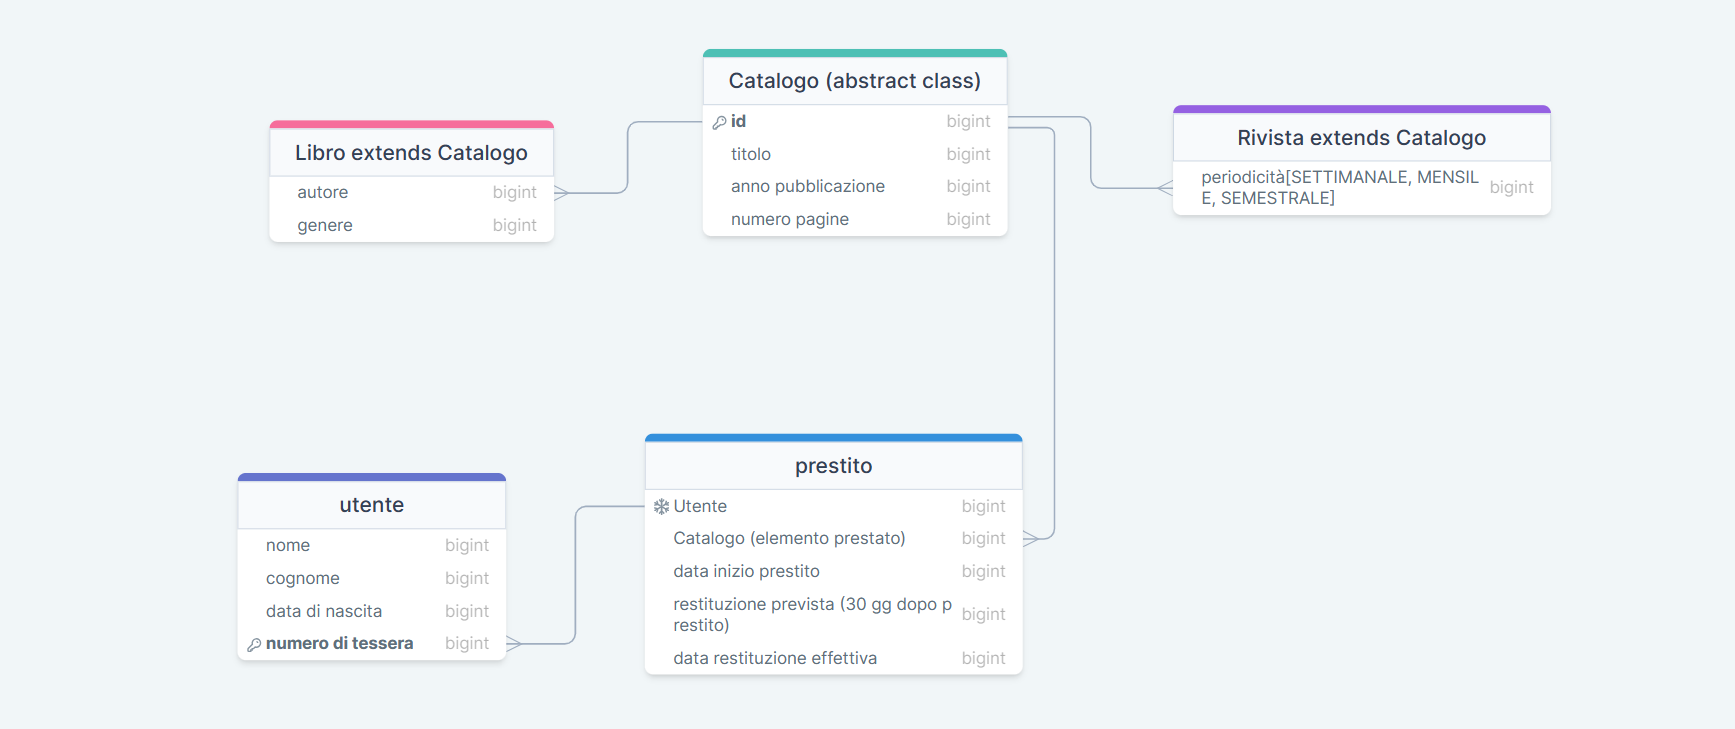
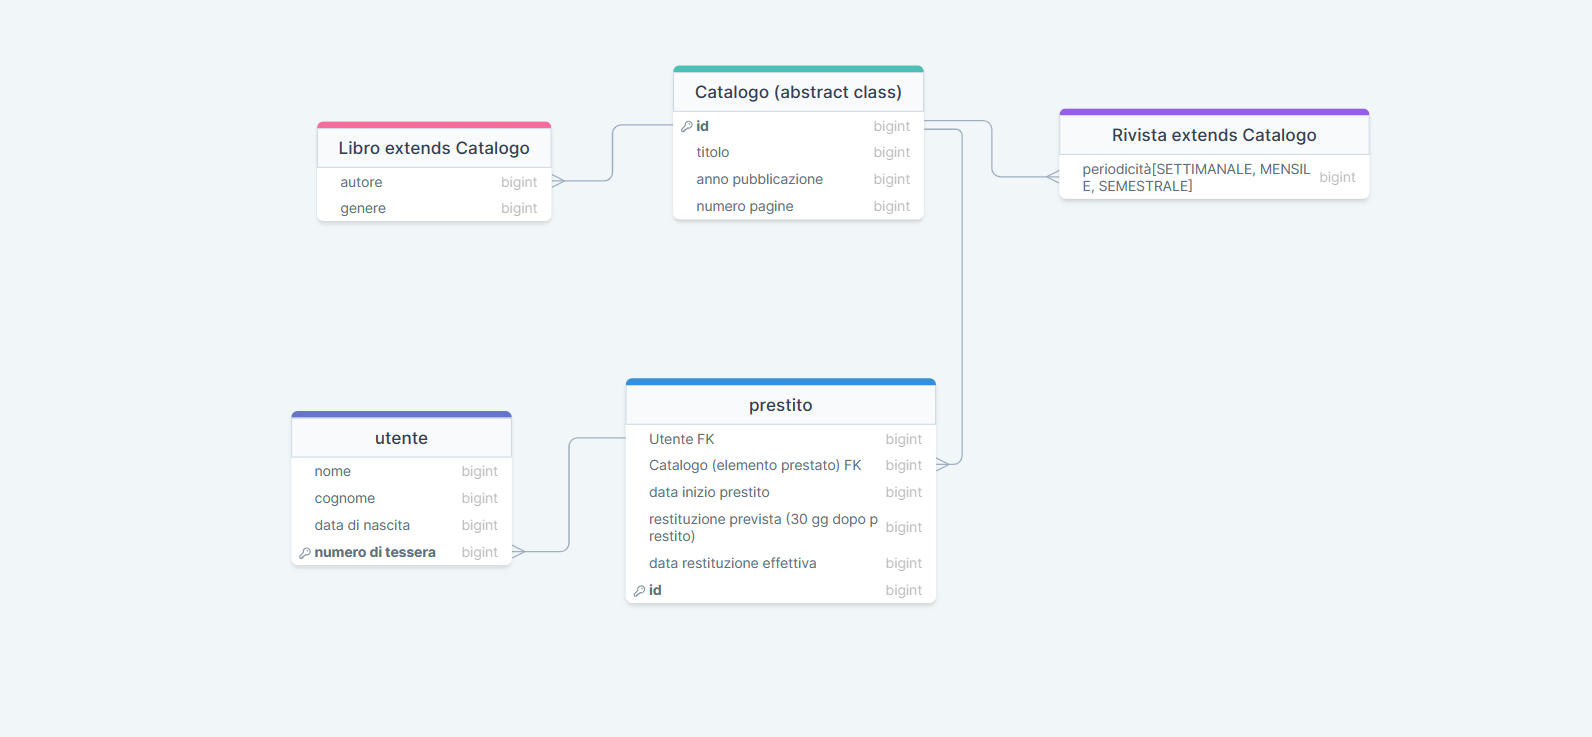
DB schemas fixed

diff --git a/src/main/java/perri/dao/PrestitoDAO.java b/src/main/java/perri/dao/PrestitoDAO.java
@@ -32,6 +32,15 @@ public class PrestitoDAO {
         return elemento;
     }
 
+    public List<Prestito> trovaPrestitiAttiviPerUtente(long numeroTessera) {
+        TypedQuery<Prestito> query = em.createQuery(
+                "SELECT p FROM Prestito p WHERE p.utente.numeroTessera = :numeroTessera AND p.restituzioneEffettiva IS NULL",
+                Prestito.class);
+        query.setParameter("numeroTessera", numeroTessera);
+        return query.getResultList();
+    }
+
+
     public void delete(long id) {
         try {
             Prestito trovato = this.getById(id);
